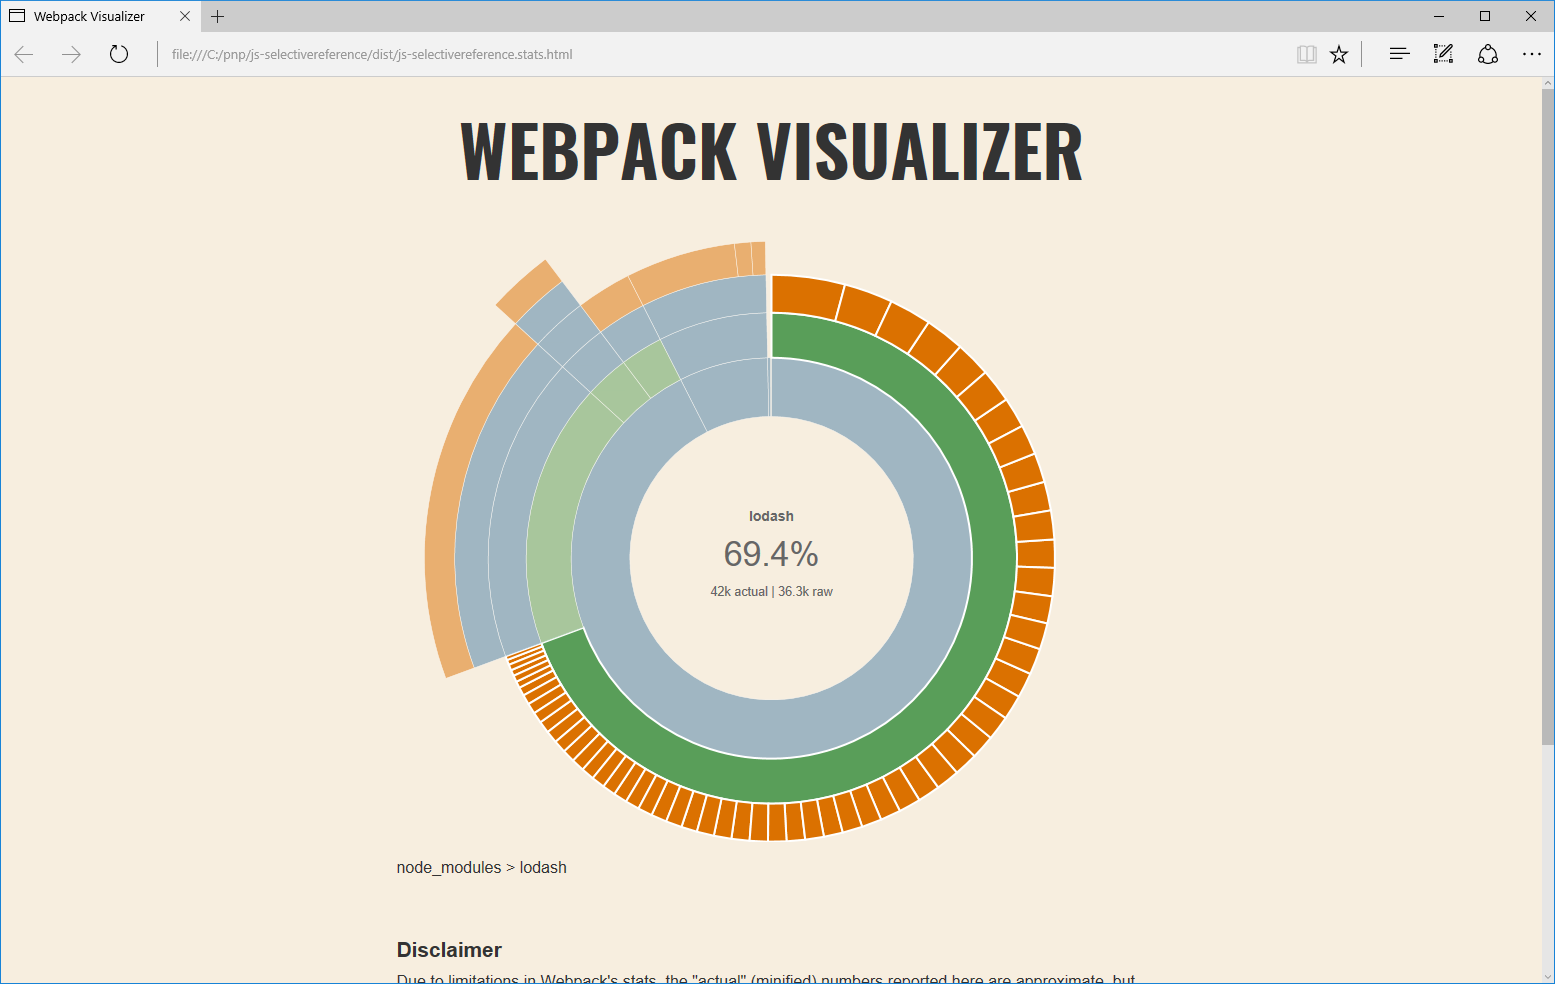
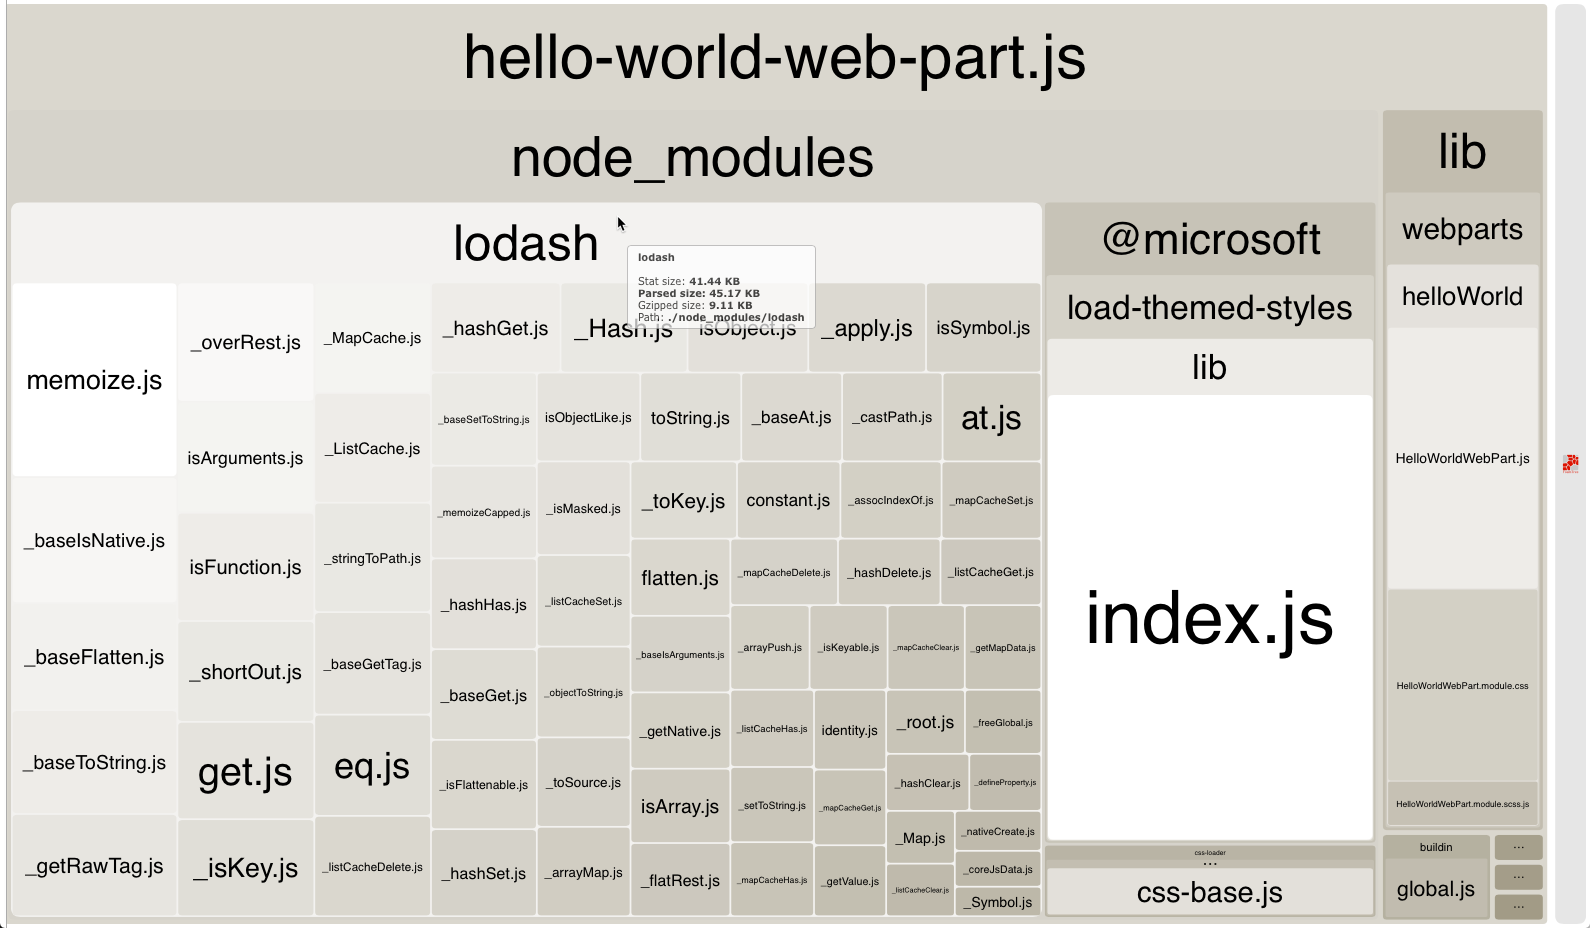
Updated guidance on optimizing builds for production with the latest webpack information

diff --git a/docs/spfx/toolchain/optimize-builds-for-production.md b/docs/spfx/toolchain/optimize-builds-for-production.md
@@ -1,6 +1,6 @@
 ---
 title: Optimize builds for production
-ms.date: 09/25/2017
+ms.date: 11/21/2017
 ms.prod: sharepoint
 ---
 
@@ -33,13 +33,51 @@ When working with third party libraries, you should always consider loading them
 
 ## Verify the contents of your bundle
 
-When building your project in the debug mode, the SharePoint Framework provides you with the [Webpack Visualizer](https://chrisbateman.github.io/webpack-visualizer/) chart showing the different scripts included in the generated bundle. You can find this chart in the **./temp/stats/[solution-name].stats.html** file.
+To better understand the size of the generated bundles, you can extend the webpack configuration in your project and have the SharePoint Framework generate bundle statistics.
 
-![Webpack Visualizer chart illustrating the contents of a sample SharePoint Framework bundle](../../images/guidance-productionbuilds-webpack-visualizer-angular.png)
+First, install the **webpack-bundle-analyzer** package in your project, by executing in the command line:
 
-Using the Webpack Visualizer chart is a convenient way for you to verify, that the generated bundle doesn't contain any unnecessary scripts and how the included scripts affect the total bundle size. Keep in mind, that the displayed size reflects the debug build and would be significantly smaller for a release build.
+```sh
+npm install webpack-bundle-analyzer --save-dev
+```
 
-More detailed information, used to generate the chart, is included in the **./dist/[solution-name].stats.json** file. Using this file you can find out why a specific script has been included in the bundle or if a particular script is used in multiple bundles. With this information you can optimize your bundles improving the loading time of your solution.
+Next, change the contents of the **gulpfile.js** file in your project to:
+
+```js
+'use strict';
+
+const gulp = require('gulp');
+const path = require('path');
+const build = require('@microsoft/sp-build-web');
+const bundleAnalyzer = require('webpack-bundle-analyzer');
+
+build.configureWebpack.mergeConfig({
+  additionalConfiguration: (generatedConfiguration) => {
+    const lastDirName = path.basename(__dirname);
+    const dropPath = path.join(__dirname, 'temp', 'stats');
+    generatedConfiguration.plugins.push(new bundleAnalyzer.BundleAnalyzerPlugin({
+      openAnalyzer: false,
+      analyzerMode: 'static',
+      reportFilename: path.join(dropPath, `${lastDirName}.stats.html`),
+      generateStatsFile: true,
+      statsFilename: path.join(dropPath, `${lastDirName}.stats.json`),
+      logLevel: 'error'
+    }));
+
+    return generatedConfiguration;
+  }
+});
+
+build.initialize(gulp);
+```
+
+Next time you bundle your project using the `gulp bundle` task, you will see the bundle stats files generated in the **temp/stats** folder in your project. One of the generated stats file, is a treemap showing the different scripts included in the generated bundle. You can find this visualization in the **./temp/stats/[solution-name].stats.html** file.
+
+![Webpack bundle analyzer treemap illustrating the contents of a sample SharePoint Framework bundle](../../images/guidance-productionbuilds-webpack-bundlestats-chart-angular.png)
+
+Using the Webpack bundle analyzer treemap is a convenient way for you to verify, that the generated bundle doesn't contain any unnecessary scripts and how the included scripts affect the total bundle size. Keep in mind, that the displayed size reflects the debug build and would be significantly smaller for a release build.
+
+More detailed information, used to generate the visualization, is included in the **./dist/[solution-name].stats.json** file. Using this file you can find out why a specific script has been included in the bundle or if a particular script is used in multiple bundles. With this information you can optimize your bundles improving the loading time of your solution.
 
 ## Choose your primary client-side library
 
@@ -57,9 +95,9 @@ To illustrate this, take the [Lodash](https://lodash.com) library as an example.
 import * as _ from 'lodash';
 ```
 
-It would add 533 KB to your unoptimized bundle.
+It would add 527 KB to your unoptimized bundle.
 
-![The complete Lodash library included in a bundle, highlighted in the Webpack Visualizer chart](../../images/guidance-productionbuilds-import-lodash.png)
+![The complete Lodash library included in a bundle, highlighted in the Webpack bundle analyzer treemap](../../images/guidance-productionbuilds-import-lodash.png)
 
 Instead, if you referenced only the specific Lodash method using the following code:
 
@@ -67,9 +105,9 @@ Instead, if you referenced only the specific Lodash method using the following c
 const at: any = require('lodash/at');
 ```
 
-It would add 42 KB to your unoptimized bundle.
+It would add 45 KB to your unoptimized bundle.
 
-![Specific Lodash method included in a bundle, highlighted in the Webpack Visualizer chart](../../images/guidance-productionbuilds-import-lodash-at.png)
+![Specific Lodash method included in a bundle, highlighted in the Webpack bundle analyzer treemap](../../images/guidance-productionbuilds-import-lodash-at.png)
 
 Specifically with regards to Lodash, but which could also be the case with other libraries, referencing specific methods instead of the whole library comes with a price. Currently, Lodash doesn't support loading specific methods inside of SharePoint Framework projects using the **import** notation. Instead, you have to use a **require** statement which doesn't offer you the typesafety capabilities that using the **import** statement does. Eventually it is up to you to decide if loading significantly more code into your bundles is worth preserving the typesafety capabilities.
 
